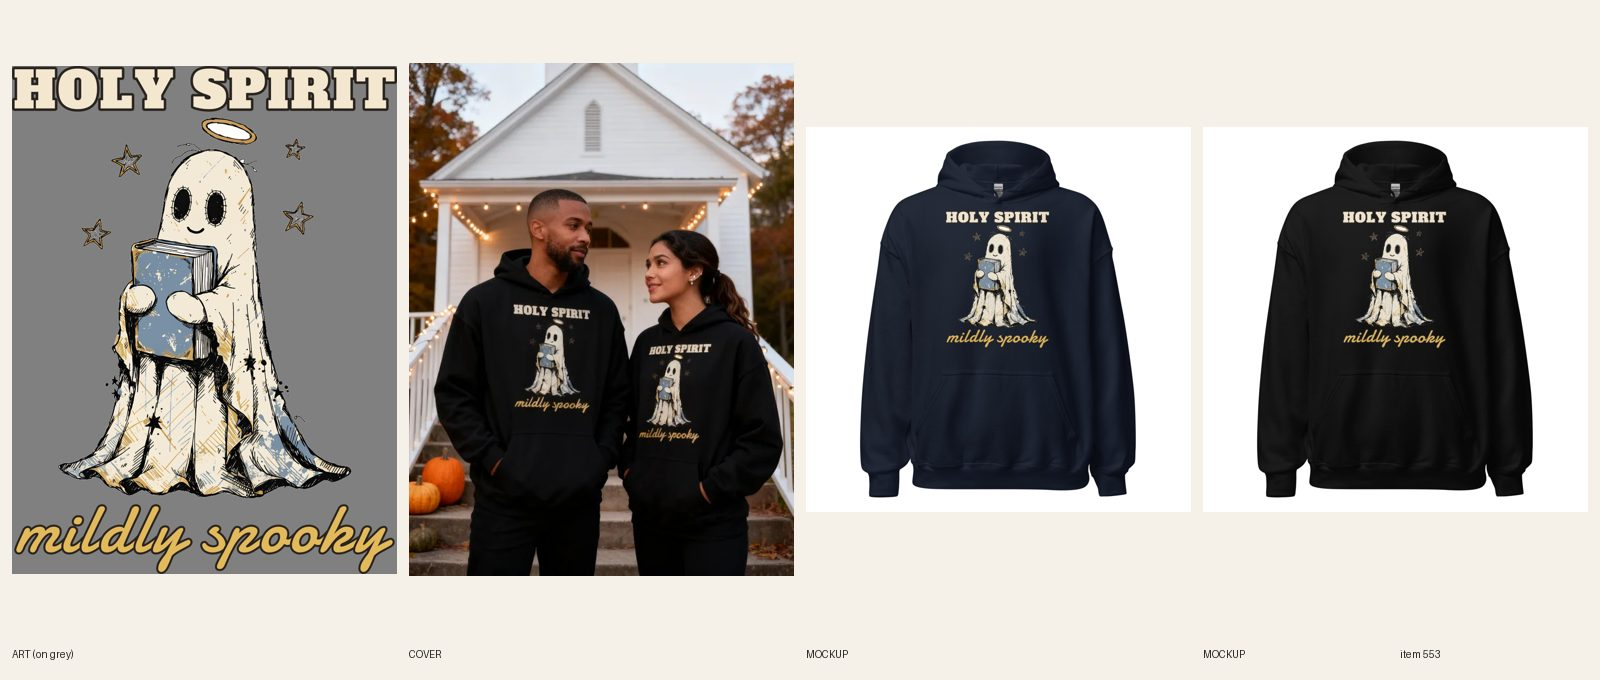
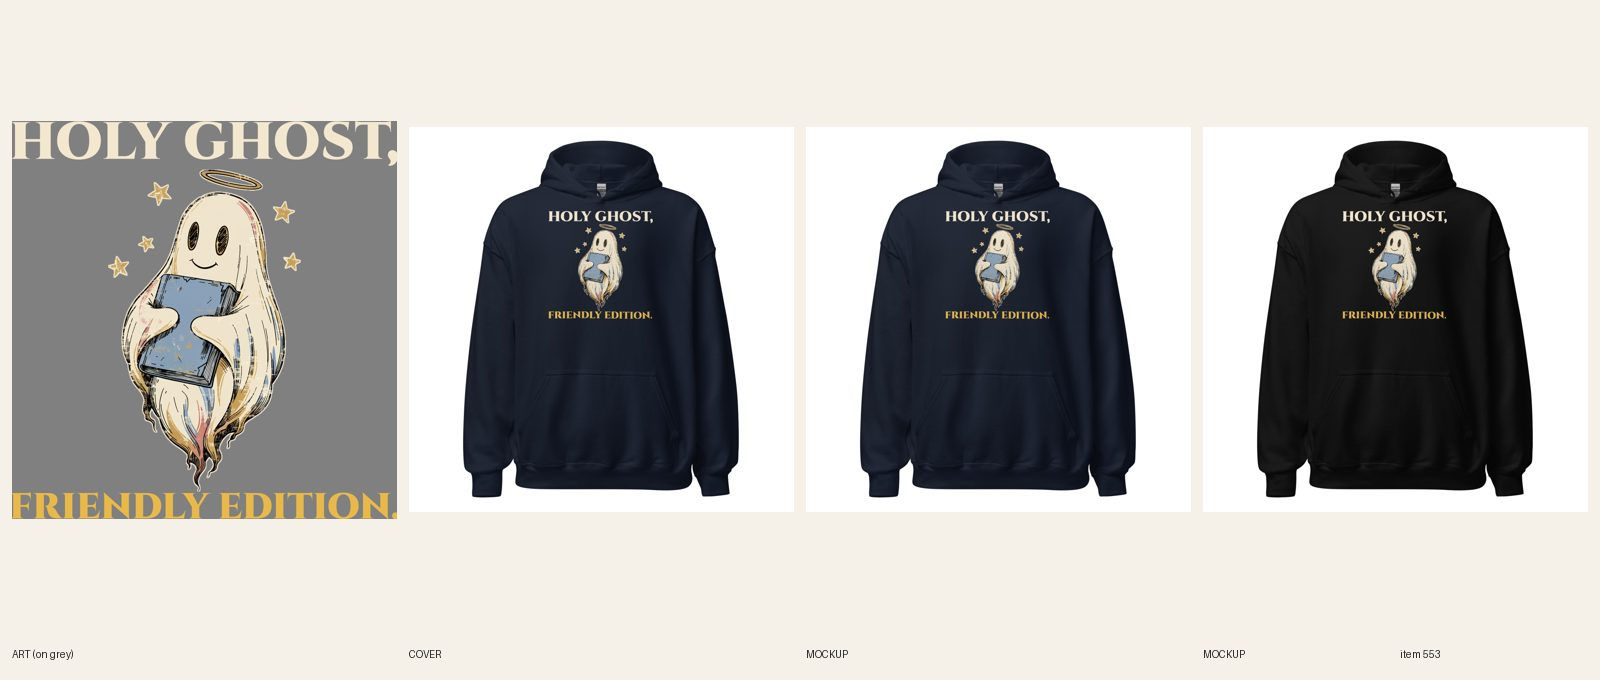
[C] review 553 (redo)
Claude-Session: https://claude.ai/code/session_01CCHcDj8LcJJ8qUPtKE3cvn

Changed region(s): [[0.0, 0.0926, 0.5, 0.8647], [0.8438, 0.3088, 0.9062, 0.525], [0.5938, 0.3088, 0.6562, 0.525]]

diff --git a/docs/pipeline/553-christian-hoodie-holy-spirit-mildly-spooky.md b/docs/pipeline/553-christian-hoodie-holy-spirit-mildly-spooky.md
@@ -1,4 +1,4 @@
-status: BUILDING [C] 2026-10-20 10:04
+status: REVIEW
 shopify: gid://shopify/Product/15364812013872
 lane: C
 type: twin
@@ -27,3 +27,4 @@ kd: 32
 - 2026-10-18 06:47 UTC builder [C]: Printful relink verified 12/12 on file 1088616569; REVIEW.
 - 2026-10-18 07:22 UTC director: approved from docs/review/553.jpg; ACTIVE + Online Store + Headless + Google & YouTube. Respectful (R3.4 Christian, witty side). audit --handle PASS (0 warn). LIVE.
 - 2026-10-18 17:22 UTC director: QUALITY RESET grade C (new line + type), REDO. The product stays ACTIVE (same handle, URL, title keyword). 1. Line (R3.12, quality-reset 'Lines'): "HOLY SPIRIT / mildly spooky": Groan pun that just describes the ghost; mild aside formula. Thin gold script on dark hoodie. Write 5 candidates, keep the one a stranger laughs at in 3 seconds without backstory; kill lines that only describe the picture; if none of the 5 is funny, PARK it. 2. Quality reset type bar (docs/backlog/quality-reset.md, 'The new bar'): headline at least 90% of the art width, heavy, colors pulled from the art; second line at least 45% of the headline's height, never a thin script on a dark or mid garment; use the lettering as a shape (arch, stacked lockup, words breaking into the art), not a plain bar above and a script line below; no font used on more than 1 in 6 of the last 30 designs. 3. Keep the art if it carries the new line, else one new illustration (R4/R5). New print means a new cover per R6.10, copy line one rewritten for the new joke (R8.3), and a fresh review sheet (R7.7). While quality-reset.md says PAUSED, only lane A builds, and only the samples step 2 names.
+- 2026-10-20 10:09 UTC builder [C]: REDO new line + new art, ported from the twin source (title card 7i done). #499, the tee this hoodie twins, was redone by lane E (line HOLY GHOST, / FRIENDLY EDITION. chosen after 5 candidates, new friendly-ghost art, director LIVE 06:17-09:17); twins carry the design's line (R3.9) and faith humor stays gentle (R3.14), so this hoodie ports #499's new print (docs/print-files/499-main.png) instead of inventing a second line. Cinzel Black lines in cream and gold with a thin cream halo, both full print width (measured in #499: headline 3600 px / punch 3600 px at the full width). Navy + Black are both dark and the print is one cream-and-gold file, so no light file is needed (logged: no light color offered); file 1090291345 on both colors (docs/print-files/553-v2-ghost.png). Print 3600 x 3723, FW 1500 TOP 0 (about 1,550 px high, ends above the pouch seam on both mockups), 12/12 relinked (verified on the API). 2 fronts replaced in place, read at phone size. Title set to "Unisex Christian – Holy Ghost, Friendly Edition Hoodie" (handle unchanged); copy, FAQ and SEO rewritten (no scripture or Bible-cover claims; the book is a plain blue book). Handle in retired-covers.json. Plain product shot. fal $0.

diff --git a/docs/intake-log.md b/docs/intake-log.md
@@ -27,6 +27,7 @@ RUNNING lane B since 2026-10-20 09:02 UTC
 2026-10-20 07:44 UTC — [B] Builder run: REDO round 3 of #455 Unisex Hanukkah Lost My Gelt crewneck (dreidel face marks painted out, Navy file 1090236634 + Sport Grey file 1090236680, FW 1650 TOP 0, 12/12 relinked, 2 fronts replaced in place) and #469 Women's Christmas embroidered crewneck (new line BOOKED / THROUGH JANUARY., headline 2197 / punch 2197 px, Sand file 1090237592 + Navy file 1090237605, 12/12 synced, title/SEO/copy/alts updated). Both REVIEW. #498 left for director (R3.14 note). fal $0.
 2026-10-20 08:00 UTC — [E] Builder run: redid #608 Women's Pickleball tee (line + type: POLITE SMILE. / PERSONAL VENDETTA., same serene-lady art, Bevan, dark-ink file on 5 light colors, 30/30 synced). REVIEW. fal $0.
 RUNNING lane C since 2026-10-20 07:00 UTC
+2026-10-20 10:09 UTC — [C] Builder run: redid #553 Unisex Christian ghost hoodie (twin of #499: HOLY GHOST, / FRIENDLY EDITION. and the new friendly-ghost art, Navy + Black on file 1090291345, FW 1500 TOP 0, 12/12 relinked, 2 fronts replaced in place, title + copy + SEO updated). REVIEW. fal $0.
 2026-10-20 10:03 UTC — [C] Builder run: redid #346 Women's Christian Casserole Ministry hoodie (type only, faith insider joke kept: CASSEROLE Bowlby rose + MINISTRY Alfa green full width, old arched script erased, Sand file 1090289536 + Sport Grey file 1090289614, FW 1500 TOP 0, 12/12 relinked, 2 fronts replaced in place, copy updated). REVIEW. fal $0.
 2026-10-20 09:58 UTC — [C] Builder run: redid #607 Women's Pickleball hoodie (new line + type: STAY OUT OF THE KITCHEN. / WE'RE TALKING., headline 3305 px / punch 3322 px, Big Shoulders + Bowlby, same three-friends art, Sand file 1090287555 + Navy file 1090287613, FW 1500 TOP 0, 12/12 relinked, 2 fronts replaced in place, title + copy + SEO updated). REVIEW. fal $0.
 2026-10-20 09:52 UTC — [C] Builder run: redid #626 Women's Softball Mom zip hoodie (twin of #535: TRAVEL BALL: / PAY TO SUNBURN., new camp-chair art, Ash file 1090285645 + Navy file 1090285675, chest 1090285470, BW 1650 BT 225, 12/12 relinked, back mockups replaced, title + copy + SEO updated). REVIEW. fal $0.
